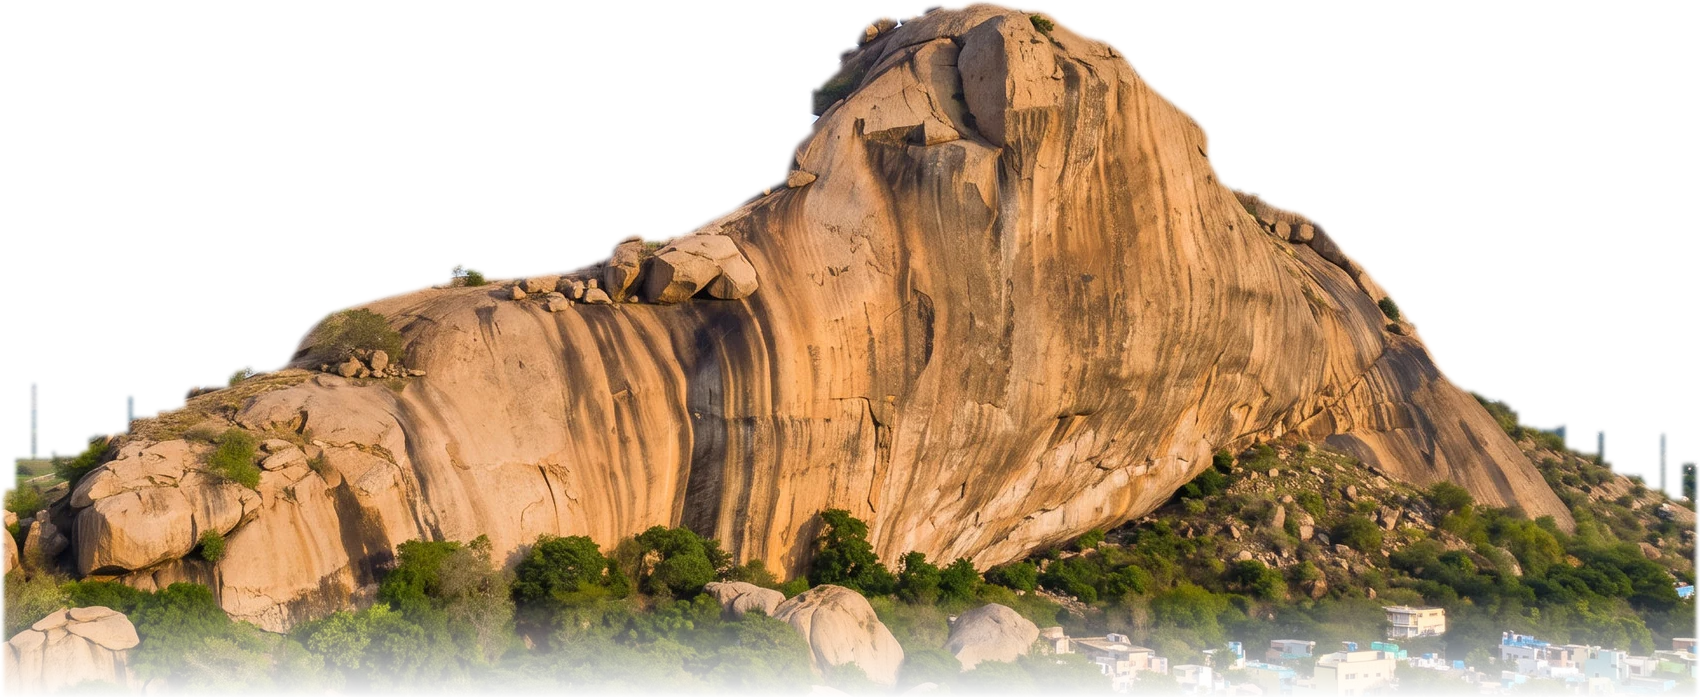
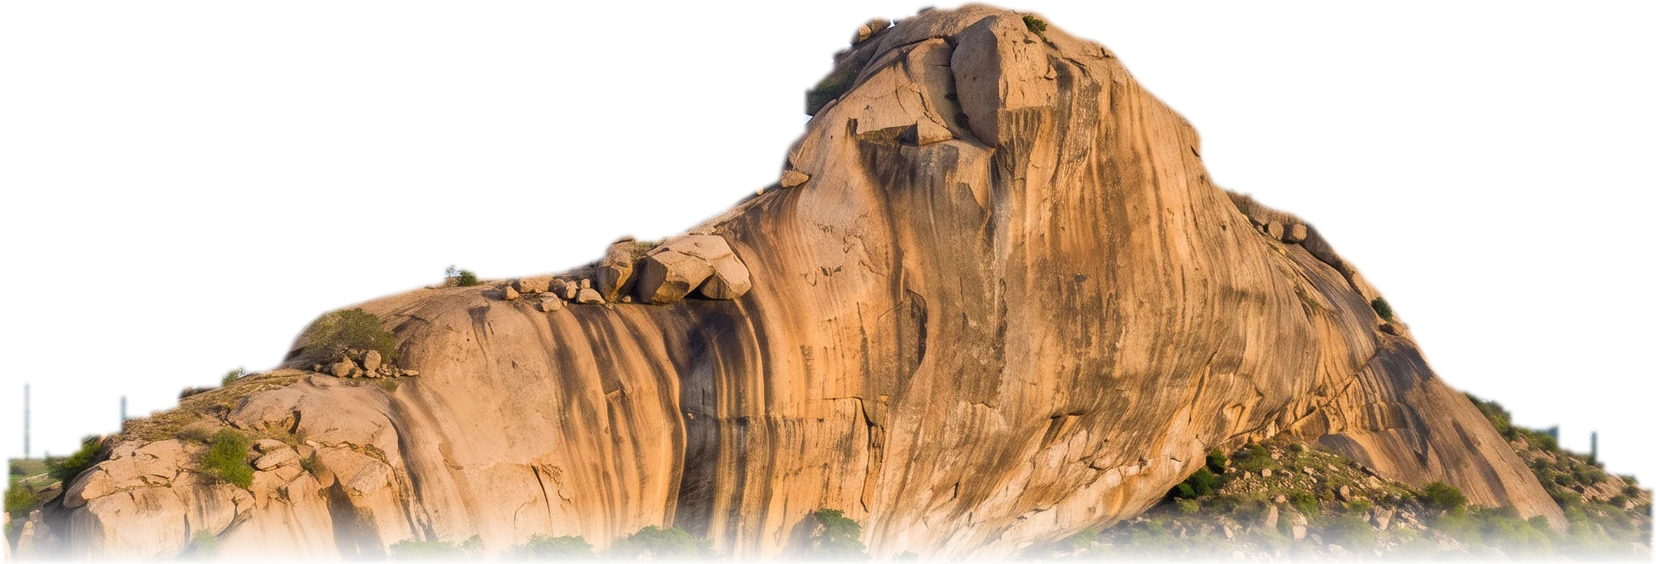
Hero eruption v2: sprite stops above the tree line, real rock-texture fragments, slower rise, readable eyebrow, Madurai removed from positioning copy

diff --git a/index.html b/index.html
@@ -4,7 +4,7 @@
 <script>document.documentElement.className="js";</script>
 <meta charset="utf-8">
 <meta name="viewport" content="width=device-width, initial-scale=1">
-<title>MRC Landmarks | Rooted in Madurai. Built for the South.</title>
+<title>MRC Landmarks | Landmarks for Southern Tamil Nadu</title>
 <meta name="description" content="MRC Landmarks is developing its first DTCP approved, RERA registered plotted layout at Yanaimalai, Madurai, with title verified and boundaries surveyed.">
 <link rel="icon" type="image/svg+xml" href="mrc-logo.svg">
 <link rel="icon" type="image/png" href="MRC LOGO LOTUS25 copy.pdf.png">
@@ -19,7 +19,7 @@
 <div class="topbar">
   <div class="wrap">
     <div><a href="tel:+918925972469">+91 89259 72469</a><span class="sep">&middot;</span><a href="mailto:mrclandmarks@gmail.com">mrclandmarks@gmail.com</a></div>
-    <div class="right">Rooted in Madurai. Built for the South.</div>
+    <div class="right">Landmarks for Southern Tamil Nadu</div>
   </div>
 </div>
 
@@ -57,25 +57,25 @@
   <section class="hero">
     <div class="hero-bg"><div class="hero-stage">
       <div class="plate"></div>
-      <div class="rise"><img class="hill" src="hero-hill.webp" alt="" width="1700" height="697"></div>
+      <div class="rise"><img class="hill" src="hero-hill.webp" alt="" width="1656" height="564"></div>
       <svg class="crack" viewBox="0 0 1000 40" preserveAspectRatio="none"><path d="M180 22 L260 18 L330 26 L410 14 L470 24 L540 12 L610 26 L690 16 L760 24 L840 14 L900 22"/></svg>
-      <div class="dust"><i style="--x:26%;--d:0.95s;--s:1.1"></i><i style="--x:34%;--d:1.05s;--s:0.9"></i><i style="--x:43%;--d:0.9s;--s:1.3"></i><i style="--x:52%;--d:1.0s;--s:1.0"></i><i style="--x:60%;--d:1.1s;--s:1.2"></i><i style="--x:69%;--d:0.95s;--s:0.9"></i><i style="--x:78%;--d:1.05s;--s:1.1"></i><i style="--x:86%;--d:1.15s;--s:0.8"></i></div>
-      <div class="rocks"><b style="--x:30%;--dx:-70px;--dy:-170px;--r:-160deg;--d:1.0s"></b><b style="--x:41%;--dx:-30px;--dy:-230px;--r:120deg;--d:1.05s"></b><b style="--x:50%;--dx:20px;--dy:-260px;--r:-90deg;--d:0.98s"></b><b style="--x:58%;--dx:60px;--dy:-210px;--r:200deg;--d:1.08s"></b><b style="--x:67%;--dx:90px;--dy:-170px;--r:-140deg;--d:1.02s"></b><b style="--x:76%;--dx:40px;--dy:-140px;--r:90deg;--d:1.1s"></b></div>
+      <div class="dust"><i style="--x:24%;--d:1.3s;--s:1.2"></i><i style="--x:31%;--d:1.55s;--s:0.9"></i><i style="--x:38%;--d:1.2s;--s:1.4"></i><i style="--x:45%;--d:1.45s;--s:1.0"></i><i style="--x:52%;--d:1.7s;--s:1.3"></i><i style="--x:59%;--d:1.35s;--s:1.1"></i><i style="--x:66%;--d:1.6s;--s:1.4"></i><i style="--x:73%;--d:1.25s;--s:0.9"></i><i style="--x:80%;--d:1.5s;--s:1.2"></i><i style="--x:87%;--d:1.75s;--s:0.8"></i></div>
+      <div class="rocks"><b style="--x:29%;--dx:-90px;--dy:-210px;--r:-170deg;--d:1.35s;--w:2.2%;--bp:40% 55%;--cp:polygon(18% 0,70% 6%,100% 40%,84% 100%,30% 92%,0 55%)"></b><b style="--x:37%;--dx:-40px;--dy:-300px;--r:140deg;--d:1.45s;--w:1.6%;--bp:55% 45%;--cp:polygon(0 30%,45% 0,100% 20%,90% 75%,50% 100%,10% 80%)"></b><b style="--x:45%;--dx:10px;--dy:-340px;--r:-100deg;--d:1.3s;--w:2.6%;--bp:62% 60%;--cp:polygon(10% 10%,60% 0,100% 35%,75% 100%,20% 95%,0 50%)"></b><b style="--x:52%;--dx:50px;--dy:-280px;--r:220deg;--d:1.5s;--w:1.4%;--bp:48% 50%;--cp:polygon(25% 0,85% 10%,100% 60%,60% 100%,0 80%,5% 30%)"></b><b style="--x:59%;--dx:90px;--dy:-320px;--r:-150deg;--d:1.4s;--w:2.0%;--bp:70% 40%;--cp:polygon(0 20%,50% 0,100% 30%,95% 80%,45% 100%,5% 70%)"></b><b style="--x:66%;--dx:120px;--dy:-230px;--r:100deg;--d:1.55s;--w:1.8%;--bp:58% 65%;--cp:polygon(15% 0,80% 0,100% 50%,80% 100%,20% 100%,0 45%)"></b><b style="--x:73%;--dx:70px;--dy:-260px;--r:-200deg;--d:1.35s;--w:1.3%;--bp:44% 62%;--cp:polygon(30% 0,100% 25%,85% 90%,35% 100%,0 60%)"></b><b style="--x:81%;--dx:40px;--dy:-180px;--r:160deg;--d:1.6s;--w:2.3%;--bp:66% 52%;--cp:polygon(0 40%,40% 0,100% 15%,100% 70%,55% 100%,10% 90%)"></b></div>
     </div></div>
     <div class="wrap">
       <div class="hero-main">
-        <p class="eyebrow up" style="--d:2.35s">MRC Landmarks &middot; Madurai</p>
-        <h1 class="display"><span class="line"><span class="up" style="--d:2.45s">Crafting landmarks</span></span><span class="line"><span class="up" style="--d:2.6s">for the <em>South.</em></span></span></h1>
-        <p class="sub up" style="--d:2.8s">From Madurai outward, we plan, document and deliver land that families across Southern Tamil Nadu can build a future on.</p>
+        <p class="eyebrow up" style="--d:4.0s">MRC Landmarks</p>
+        <h1 class="display"><span class="line"><span class="up" style="--d:4.1s">Crafting landmarks</span></span><span class="line"><span class="up" style="--d:4.25s">for the <em>South.</em></span></span></h1>
+        <p class="sub up" style="--d:4.45s">Across Southern Tamil Nadu, we plan, document and deliver land that families can build a future on.</p>
       </div>
-      <div class="hero-side up" style="--d:2.95s">
+      <div class="hero-side up" style="--d:4.6s">
         <div class="hero-cta">
           <a class="btn btn-ink" href="locations.html">Begin the Journey &rarr;</a>
           <a class="btn btn-ghost" href="https://mrc-event.vercel.app/visit">Schedule a Visit</a>
         </div>
       </div>
     </div>
-    <div class="hero-trust marquee up" style="--d:3.15s"><div class="marquee-track"><span><i class="hero-trust-dot"></i>Rooted in Madurai</span><span><i class="hero-trust-dot"></i>Built for Southern Tamil Nadu</span><span><i class="hero-trust-dot"></i>DTCP approved</span><span><i class="hero-trust-dot"></i>TNRERA registered</span><span><i class="hero-trust-dot"></i>Survey verified</span><span><i class="hero-trust-dot"></i>Bank-loan eligible</span><span><i class="hero-trust-dot"></i>Clear documentation</span><span><i class="hero-trust-dot"></i>Planned infrastructure</span><span><i class="hero-trust-dot"></i>Family-first communities</span><span><i class="hero-trust-dot"></i>Crafting Landmarks, Creating Legacies</span><span><i class="hero-trust-dot"></i>Rooted in Madurai</span><span><i class="hero-trust-dot"></i>Built for Southern Tamil Nadu</span><span><i class="hero-trust-dot"></i>DTCP approved</span><span><i class="hero-trust-dot"></i>TNRERA registered</span><span><i class="hero-trust-dot"></i>Survey verified</span><span><i class="hero-trust-dot"></i>Bank-loan eligible</span><span><i class="hero-trust-dot"></i>Clear documentation</span><span><i class="hero-trust-dot"></i>Planned infrastructure</span><span><i class="hero-trust-dot"></i>Family-first communities</span><span><i class="hero-trust-dot"></i>Crafting Landmarks, Creating Legacies</span></div></div>
+    <div class="hero-trust marquee up" style="--d:4.8s"><div class="marquee-track"><span><i class="hero-trust-dot"></i>Built for Southern Tamil Nadu</span><span><i class="hero-trust-dot"></i>DTCP approved</span><span><i class="hero-trust-dot"></i>TNRERA registered</span><span><i class="hero-trust-dot"></i>Survey verified</span><span><i class="hero-trust-dot"></i>Bank-loan eligible</span><span><i class="hero-trust-dot"></i>Clear documentation</span><span><i class="hero-trust-dot"></i>Planned infrastructure</span><span><i class="hero-trust-dot"></i>Family-first communities</span><span><i class="hero-trust-dot"></i>Crafting Landmarks, Creating Legacies</span><span><i class="hero-trust-dot"></i>Built for Southern Tamil Nadu</span><span><i class="hero-trust-dot"></i>DTCP approved</span><span><i class="hero-trust-dot"></i>TNRERA registered</span><span><i class="hero-trust-dot"></i>Survey verified</span><span><i class="hero-trust-dot"></i>Bank-loan eligible</span><span><i class="hero-trust-dot"></i>Clear documentation</span><span><i class="hero-trust-dot"></i>Planned infrastructure</span><span><i class="hero-trust-dot"></i>Family-first communities</span><span><i class="hero-trust-dot"></i>Crafting Landmarks, Creating Legacies</span></div></div>
   </section>
 
   <section class="alt" id="launch">
@@ -276,7 +276,7 @@
     <div class="foot-top">
       <div>
         <a class="brand" href="index.html" style="margin:0"><img src="mrc-logo.svg" alt="MRC Landmarks" height="70"></a>
-        <p class="about">Rooted in Madurai. MRC plans and documents land across Southern Tamil Nadu so families can decide with clarity, not guesswork.</p>
+        <p class="about">MRC plans and documents land across Southern Tamil Nadu so families can decide with clarity, not guesswork.</p>
         <p class="about"><a href="tel:+918925972469">+91 89259 72469</a><br><a href="mailto:mrclandmarks@gmail.com">mrclandmarks@gmail.com</a></p>
       </div>
       <div>

diff --git a/mrc.css b/mrc.css
@@ -127,7 +127,7 @@ header.site .wrap, .brand .mark { transition: padding .35s var(--ease), width .3
     url('2b1442b6-33c3-4be9-aa9e-cc22d6a2ebea.png') center 38% / cover no-repeat; color: #fff; }
 .hero h1.display { color: #fff; max-width: 16ch; }
 .hero h1 em { font-style: normal; color: var(--teal-mid); }
-.hero .eyebrow { color: var(--teal-mid); }
+.hero .eyebrow { color: rgba(255,255,255,.78); }
 .hero p.sub { margin-top: 1.6rem; max-width: 48ch; font-size: 1.1rem; color: rgba(255,255,255,.85); }
 .hero-cta { display: flex; flex-wrap: wrap; gap: .85rem; margin-top: 2.4rem; }
 .hero-stats { display: flex; flex-wrap: wrap; gap: clamp(2rem,6vw,4.5rem); margin-top: 3.2rem; padding-top: 2.1rem; border-top: 1px solid rgba(255,255,255,.22); }
@@ -359,50 +359,53 @@ footer.site .about { font-size: .93rem; max-width: 42ch; margin-top: 1.2rem; }
 @keyframes kenburns { from { scale: 1.12; } to { scale: 1; } }
 .hero-stage .plate { position: absolute; inset: 0; background: url('hero-plate.jpg') center / 100% 100% no-repeat; }
 /* the ground line sits at 74% of the photo; the hill is only ever visible above it */
-.hero-stage .rise { position: absolute; inset: 0; clip-path: inset(0 0 26% 0); }
+.hero-stage .rise { position: absolute; inset: 0; clip-path: inset(0 0 30% 0); }
 .hero-stage .hill {
-  position: absolute; left: 20.083%; top: 27.761%; width: 70.833%; height: auto;
-  transform: translateY(92%); animation: hillRise 1.7s cubic-bezier(.2, 1.1, .3, 1) .8s forwards;
+  position: absolute; left: 20.375%; top: 27.761%; width: 69%; height: auto;
+  transform: translateY(104%); animation: hillRise 2.9s cubic-bezier(.3, .9, .25, 1) 1.1s forwards;
   filter: drop-shadow(0 30px 40px rgba(12,71,76,.35));
 }
 @keyframes hillRise { to { transform: none; } }
 /* the ground shakes twice: as it cracks, and as the rock lands */
-.hero-stage { animation: kenburns 16s var(--ease) both, quake .5s ease-in-out .45s, quake .35s ease-in-out 2.3s; }
+.hero-stage { animation: kenburns 18s var(--ease) both, quake .7s ease-in-out .5s, quake .45s ease-in-out 3.7s; }
 @keyframes quake {
   0%,100% { transform: translate(0,0); } 20% { transform: translate(-3px,2px); } 40% { transform: translate(3px,-2px); }
   60% { transform: translate(-2px,-2px); } 80% { transform: translate(2px,2px); }
 }
 /* fissure along the ground line: draws, glows, then closes */
 .hero-stage .crack {
-  position: absolute; left: 0; width: 100%; top: 72.2%; height: 3.6%; overflow: visible;
+  position: absolute; left: 0; width: 100%; top: 68.2%; height: 3.6%; overflow: visible;
   fill: none; stroke: #2a1d14; stroke-width: 3; stroke-linejoin: round;
   stroke-dasharray: 1400; stroke-dashoffset: 1400; opacity: 0;
   filter: drop-shadow(0 0 6px rgba(0,0,0,.6));
-  animation: crackDraw .55s ease-out .5s forwards, crackFade .6s ease-in 2.4s forwards;
+  animation: crackDraw 1s ease-out .6s forwards, crackFade .8s ease-in 3.8s forwards;
 }
 @keyframes crackDraw { to { stroke-dashoffset: 0; opacity: 1; } }
 @keyframes crackFade { to { opacity: 0; } }
 /* dust puffs along the line while the rock is coming up */
 .hero-stage .dust i {
-  position: absolute; left: var(--x); top: 71%; width: 14%; aspect-ratio: 1.6; translate: -50% -50%;
+  position: absolute; left: var(--x); top: 67.5%; width: 16%; aspect-ratio: 1.6; translate: -50% -50%;
   background: radial-gradient(closest-side, rgba(150,120,90,.65), rgba(150,120,90,0));
-  opacity: 0; scale: 0; animation: puff 1.5s ease-out var(--d) forwards;
+  opacity: 0; scale: 0; animation: puff 2.4s ease-out var(--d) forwards;
 }
 @keyframes puff {
   0% { opacity: 0; scale: .2; translate: -50% -50%; }
   25% { opacity: .95; }
   100% { opacity: 0; scale: calc(1.9 * var(--s)); translate: -50% -110%; }
 }
-/* a few fragments thrown up and falling back */
+/* fragments are chunks of the actual rock face, thrown up and falling back */
 .hero-stage .rocks b {
-  position: absolute; left: var(--x); top: 73%; width: 1.1%; aspect-ratio: 1; border-radius: 40% 60% 50% 45%;
-  background: #5b4634; opacity: 0; animation: fling 1.15s cubic-bezier(.2,.6,.5,1) var(--d) forwards;
+  position: absolute; left: var(--x); top: 69%; width: var(--w); aspect-ratio: 1.15;
+  background: url('hero-hill.webp') var(--bp) / 900% auto no-repeat; clip-path: var(--cp);
+  filter: brightness(.92) contrast(1.15) drop-shadow(0 6px 6px rgba(0,0,0,.45));
+  opacity: 0; animation: fling 1.9s cubic-bezier(.25,.6,.45,1) var(--d) forwards;
 }
 @keyframes fling {
   0% { opacity: 0; transform: translate(0,0) rotate(0); }
-  10% { opacity: 1; }
-  55% { transform: translate(var(--dx), var(--dy)) rotate(var(--r)); opacity: 1; }
-  100% { transform: translate(calc(var(--dx) * 1.3), 20px) rotate(calc(var(--r) * 1.6)); opacity: 0; }
+  8% { opacity: 1; }
+  50% { transform: translate(var(--dx), var(--dy)) rotate(var(--r)); opacity: 1; }
+  92% { opacity: 1; }
+  100% { transform: translate(calc(var(--dx) * 1.35), 30px) rotate(calc(var(--r) * 1.7)); opacity: 0; }
 }
 /* vertical fade for the bottom band, horizontal scrim so the headline reads over the rock */
 .hero::before {

diff --git a/about.html b/about.html
@@ -4,7 +4,7 @@
 <script>document.documentElement.className="js";</script>
 <meta charset="utf-8">
 <meta name="viewport" content="width=device-width, initial-scale=1">
-<title>About MRC Landmarks | Rooted in Madurai. Built for the South.</title>
+<title>About MRC Landmarks | Landmarks for Southern Tamil Nadu</title>
 <meta name="description" content="MRC Landmarks and its first plotted development in Southern Tamil Nadu — how the location was chosen and what has been verified.">
 <link rel="icon" type="image/svg+xml" href="mrc-logo.svg">
 <link rel="icon" type="image/png" href="MRC LOGO LOTUS25 copy.pdf.png">
@@ -18,7 +18,7 @@
 <div class="topbar">
   <div class="wrap">
     <div><a href="tel:+918925972469">+91 89259 72469</a><span class="sep">&middot;</span><a href="mailto:mrclandmarks@gmail.com">mrclandmarks@gmail.com</a></div>
-    <div class="right">Rooted in Madurai. Built for the South.</div>
+    <div class="right">Landmarks for Southern Tamil Nadu</div>
   </div>
 </div>
 
@@ -114,7 +114,7 @@
     <div class="foot-top">
       <div>
         <a class="brand" href="index.html" style="margin:0"><img src="mrc-logo.svg" alt="MRC Landmarks" height="70"></a>
-        <p class="about">Rooted in Madurai. MRC plans and documents land across Southern Tamil Nadu so families can decide with clarity, not guesswork.</p>
+        <p class="about">MRC plans and documents land across Southern Tamil Nadu so families can decide with clarity, not guesswork.</p>
         <p class="about"><a href="tel:+918925972469">+91 89259 72469</a><br><a href="mailto:mrclandmarks@gmail.com">mrclandmarks@gmail.com</a></p>
       </div>
       <div>

diff --git a/why-mrc.html b/why-mrc.html
@@ -4,7 +4,7 @@
 <script>document.documentElement.className="js";</script>
 <meta charset="utf-8">
 <meta name="viewport" content="width=device-width, initial-scale=1">
-<title>Why MRC Landmarks | Rooted in Madurai. Built for the South.</title>
+<title>Why MRC Landmarks | Landmarks for Southern Tamil Nadu</title>
 <meta name="description" content="Thoughtful locations, planned development, clear information and local understanding — what MRC Landmarks holds to on every project.">
 <link rel="icon" type="image/svg+xml" href="mrc-logo.svg">
 <link rel="icon" type="image/png" href="MRC LOGO LOTUS25 copy.pdf.png">
@@ -18,7 +18,7 @@
 <div class="topbar">
   <div class="wrap">
     <div><a href="tel:+918925972469">+91 89259 72469</a><span class="sep">&middot;</span><a href="mailto:mrclandmarks@gmail.com">mrclandmarks@gmail.com</a></div>
-    <div class="right">Rooted in Madurai. Built for the South.</div>
+    <div class="right">Landmarks for Southern Tamil Nadu</div>
   </div>
 </div>
 
@@ -115,7 +115,7 @@
     <div class="foot-top">
       <div>
         <a class="brand" href="index.html" style="margin:0"><img src="mrc-logo.svg" alt="MRC Landmarks" height="70"></a>
-        <p class="about">Rooted in Madurai. MRC plans and documents land across Southern Tamil Nadu so families can decide with clarity, not guesswork.</p>
+        <p class="about">MRC plans and documents land across Southern Tamil Nadu so families can decide with clarity, not guesswork.</p>
         <p class="about"><a href="tel:+918925972469">+91 89259 72469</a><br><a href="mailto:mrclandmarks@gmail.com">mrclandmarks@gmail.com</a></p>
       </div>
       <div>

diff --git a/approach.html b/approach.html
@@ -18,7 +18,7 @@
 <div class="topbar">
   <div class="wrap">
     <div><a href="tel:+918925972469">+91 89259 72469</a><span class="sep">&middot;</span><a href="mailto:mrclandmarks@gmail.com">mrclandmarks@gmail.com</a></div>
-    <div class="right">Rooted in Madurai. Built for the South.</div>
+    <div class="right">Landmarks for Southern Tamil Nadu</div>
   </div>
 </div>
 
@@ -126,7 +126,7 @@
     <div class="foot-top">
       <div>
         <a class="brand" href="index.html" style="margin:0"><img src="mrc-logo.svg" alt="MRC Landmarks" height="70"></a>
-        <p class="about">Rooted in Madurai. MRC plans and documents land across Southern Tamil Nadu so families can decide with clarity, not guesswork.</p>
+        <p class="about">MRC plans and documents land across Southern Tamil Nadu so families can decide with clarity, not guesswork.</p>
         <p class="about"><a href="tel:+918925972469">+91 89259 72469</a><br><a href="mailto:mrclandmarks@gmail.com">mrclandmarks@gmail.com</a></p>
       </div>
       <div>

diff --git a/insight-dtcp-rera.html b/insight-dtcp-rera.html
@@ -18,7 +18,7 @@
 <div class="topbar">
   <div class="wrap">
     <div><a href="tel:+918925972469">+91 89259 72469</a><span class="sep">&middot;</span><a href="mailto:mrclandmarks@gmail.com">mrclandmarks@gmail.com</a></div>
-    <div class="right">Rooted in Madurai. Built for the South.</div>
+    <div class="right">Landmarks for Southern Tamil Nadu</div>
   </div>
 </div>
 
@@ -290,7 +290,7 @@
     <div class="foot-top">
       <div>
         <a class="brand" href="index.html" style="margin:0"><img src="mrc-logo.svg" alt="MRC Landmarks" height="70"></a>
-        <p class="about">Rooted in Madurai. MRC plans and documents land across Southern Tamil Nadu so families can decide with clarity, not guesswork.</p>
+        <p class="about">MRC plans and documents land across Southern Tamil Nadu so families can decide with clarity, not guesswork.</p>
         <p class="about"><a href="tel:+918925972469">+91 89259 72469</a><br><a href="mailto:mrclandmarks@gmail.com">mrclandmarks@gmail.com</a></p>
       </div>
       <div>

diff --git a/insight-master-plan.html b/insight-master-plan.html
@@ -18,7 +18,7 @@
 <div class="topbar">
   <div class="wrap">
     <div><a href="tel:+918925972469">+91 89259 72469</a><span class="sep">&middot;</span><a href="mailto:mrclandmarks@gmail.com">mrclandmarks@gmail.com</a></div>
-    <div class="right">Rooted in Madurai. Built for the South.</div>
+    <div class="right">Landmarks for Southern Tamil Nadu</div>
   </div>
 </div>
 
@@ -284,7 +284,7 @@
     <div class="foot-top">
       <div>
         <a class="brand" href="index.html" style="margin:0"><img src="mrc-logo.svg" alt="MRC Landmarks" height="70"></a>
-        <p class="about">Rooted in Madurai. MRC plans and documents land across Southern Tamil Nadu so families can decide with clarity, not guesswork.</p>
+        <p class="about">MRC plans and documents land across Southern Tamil Nadu so families can decide with clarity, not guesswork.</p>
         <p class="about"><a href="tel:+918925972469">+91 89259 72469</a><br><a href="mailto:mrclandmarks@gmail.com">mrclandmarks@gmail.com</a></p>
       </div>
       <div>

diff --git a/insight-verify-before-buying.html b/insight-verify-before-buying.html
@@ -18,7 +18,7 @@
 <div class="topbar">
   <div class="wrap">
     <div><a href="tel:+918925972469">+91 89259 72469</a><span class="sep">&middot;</span><a href="mailto:mrclandmarks@gmail.com">mrclandmarks@gmail.com</a></div>
-    <div class="right">Rooted in Madurai. Built for the South.</div>
+    <div class="right">Landmarks for Southern Tamil Nadu</div>
   </div>
 </div>
 
@@ -258,7 +258,7 @@
     <div class="foot-top">
       <div>
         <a class="brand" href="index.html" style="margin:0"><img src="mrc-logo.svg" alt="MRC Landmarks" height="70"></a>
-        <p class="about">Rooted in Madurai. MRC plans and documents land across Southern Tamil Nadu so families can decide with clarity, not guesswork.</p>
+        <p class="about">MRC plans and documents land across Southern Tamil Nadu so families can decide with clarity, not guesswork.</p>
         <p class="about"><a href="tel:+918925972469">+91 89259 72469</a><br><a href="mailto:mrclandmarks@gmail.com">mrclandmarks@gmail.com</a></p>
       </div>
       <div>

diff --git a/insights.html b/insights.html
@@ -18,7 +18,7 @@
 <div class="topbar">
   <div class="wrap">
     <div><a href="tel:+918925972469">+91 89259 72469</a><span class="sep">&middot;</span><a href="mailto:mrclandmarks@gmail.com">mrclandmarks@gmail.com</a></div>
-    <div class="right">Rooted in Madurai. Built for the South.</div>
+    <div class="right">Landmarks for Southern Tamil Nadu</div>
   </div>
 </div>
 
@@ -104,7 +104,7 @@
     <div class="foot-top">
       <div>
         <a class="brand" href="index.html" style="margin:0"><img src="mrc-logo.svg" alt="MRC Landmarks" height="70"></a>
-        <p class="about">Rooted in Madurai. MRC plans and documents land across Southern Tamil Nadu so families can decide with clarity, not guesswork.</p>
+        <p class="about">MRC plans and documents land across Southern Tamil Nadu so families can decide with clarity, not guesswork.</p>
         <p class="about"><a href="tel:+918925972469">+91 89259 72469</a><br><a href="mailto:mrclandmarks@gmail.com">mrclandmarks@gmail.com</a></p>
       </div>
       <div>

diff --git a/locations.html b/locations.html
@@ -18,7 +18,7 @@
 <div class="topbar">
   <div class="wrap">
     <div><a href="tel:+918925972469">+91 89259 72469</a><span class="sep">&middot;</span><a href="mailto:mrclandmarks@gmail.com">mrclandmarks@gmail.com</a></div>
-    <div class="right">Rooted in Madurai. Built for the South.</div>
+    <div class="right">Landmarks for Southern Tamil Nadu</div>
   </div>
 </div>
 
@@ -106,7 +106,7 @@
     <div class="foot-top">
       <div>
         <a class="brand" href="index.html" style="margin:0"><img src="mrc-logo.svg" alt="MRC Landmarks" height="70"></a>
-        <p class="about">Rooted in Madurai. MRC plans and documents land across Southern Tamil Nadu so families can decide with clarity, not guesswork.</p>
+        <p class="about">MRC plans and documents land across Southern Tamil Nadu so families can decide with clarity, not guesswork.</p>
         <p class="about"><a href="tel:+918925972469">+91 89259 72469</a><br><a href="mailto:mrclandmarks@gmail.com">mrclandmarks@gmail.com</a></p>
       </div>
       <div>

diff --git a/privacy-policy.html b/privacy-policy.html
@@ -18,7 +18,7 @@
 <div class="topbar">
   <div class="wrap">
     <div><a href="tel:+918925972469">+91 89259 72469</a><span class="sep">&middot;</span><a href="mailto:mrclandmarks@gmail.com">mrclandmarks@gmail.com</a></div>
-    <div class="right">Rooted in Madurai. Built for the South.</div>
+    <div class="right">Landmarks for Southern Tamil Nadu</div>
   </div>
 </div>
 
@@ -173,7 +173,7 @@
     <div class="foot-top">
       <div>
         <a class="brand" href="index.html" style="margin:0"><img src="mrc-logo.svg" alt="MRC Landmarks" height="70"></a>
-        <p class="about">Rooted in Madurai. MRC plans and documents land across Southern Tamil Nadu so families can decide with clarity, not guesswork.</p>
+        <p class="about">MRC plans and documents land across Southern Tamil Nadu so families can decide with clarity, not guesswork.</p>
         <p class="about"><a href="tel:+918925972469">+91 89259 72469</a><br><a href="mailto:mrclandmarks@gmail.com">mrclandmarks@gmail.com</a></p>
       </div>
       <div>

diff --git a/project-anantaa.html b/project-anantaa.html
@@ -18,7 +18,7 @@
 <div class="topbar">
   <div class="wrap">
     <div><a href="tel:+918925972469">+91 89259 72469</a><span class="sep">&middot;</span><a href="mailto:mrclandmarks@gmail.com">mrclandmarks@gmail.com</a></div>
-    <div class="right">Rooted in Madurai. Built for the South.</div>
+    <div class="right">Landmarks for Southern Tamil Nadu</div>
   </div>
 </div>
 
@@ -164,7 +164,7 @@
     <div class="foot-top">
       <div>
         <a class="brand" href="index.html" style="margin:0"><img src="mrc-logo.svg" alt="MRC Landmarks" height="70"></a>
-        <p class="about">Rooted in Madurai. MRC plans and documents land across Southern Tamil Nadu so families can decide with clarity, not guesswork.</p>
+        <p class="about">MRC plans and documents land across Southern Tamil Nadu so families can decide with clarity, not guesswork.</p>
         <p class="about"><a href="tel:+918925972469">+91 89259 72469</a><br><a href="mailto:mrclandmarks@gmail.com">mrclandmarks@gmail.com</a></p>
       </div>
       <div>
